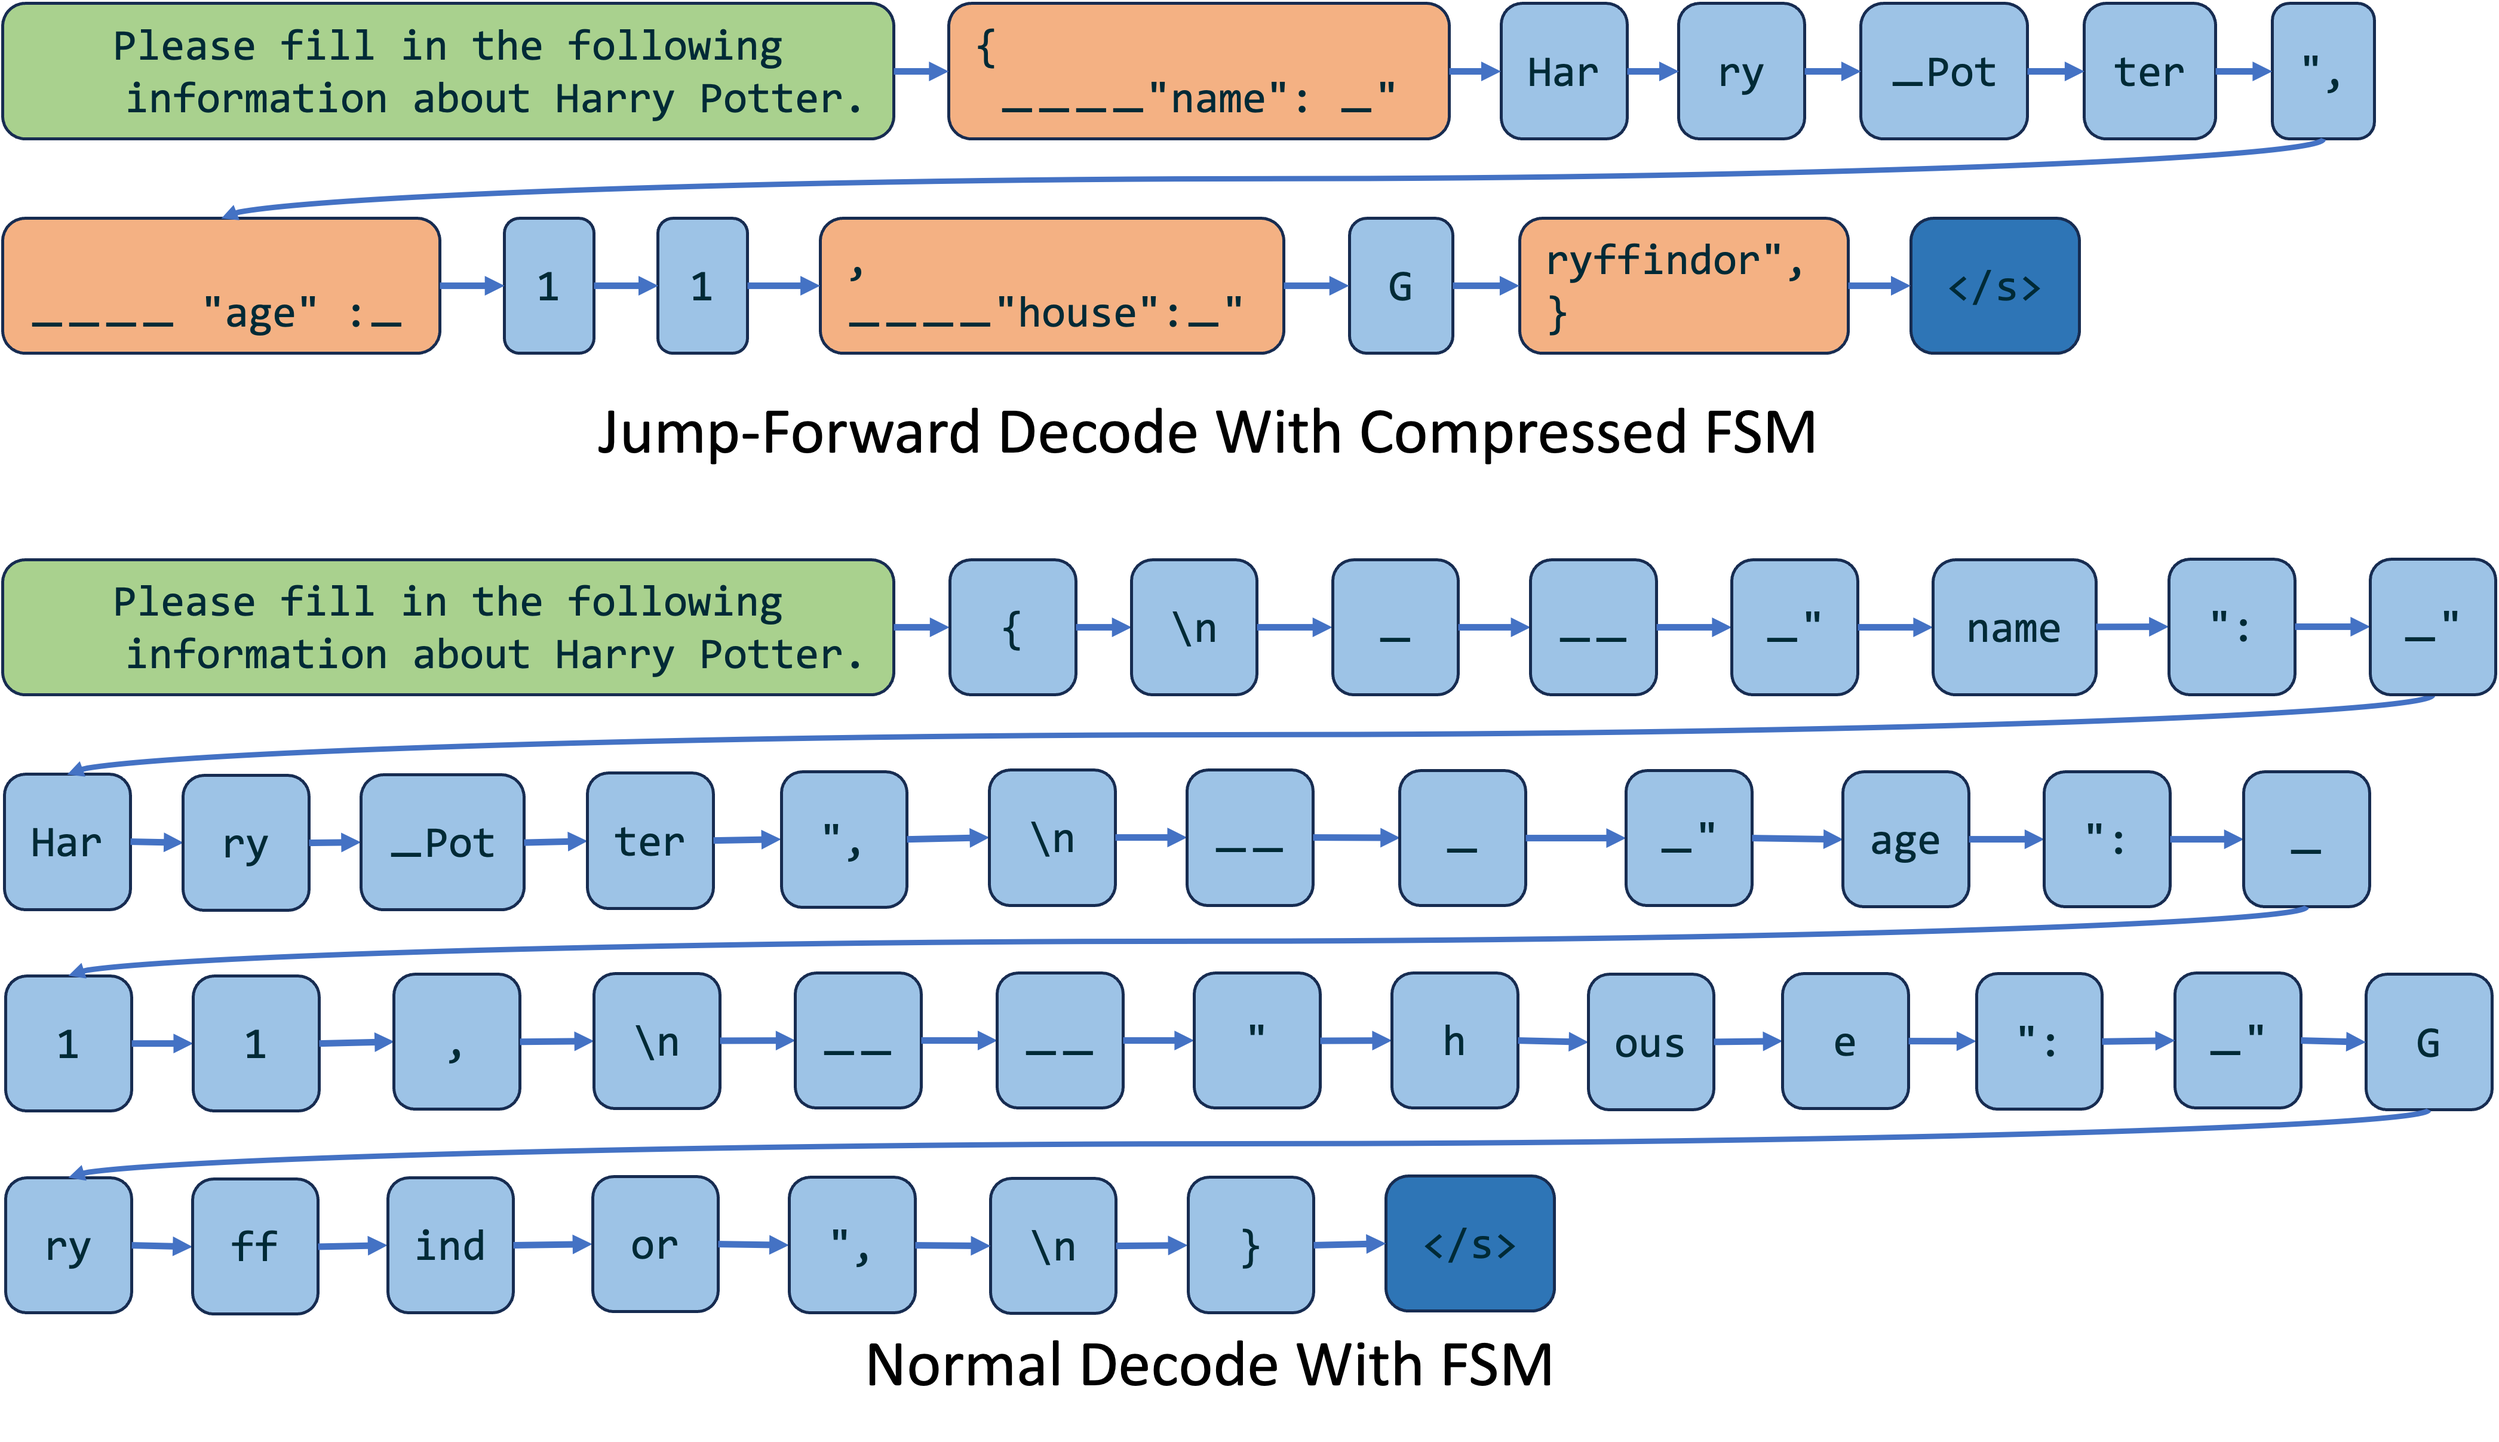
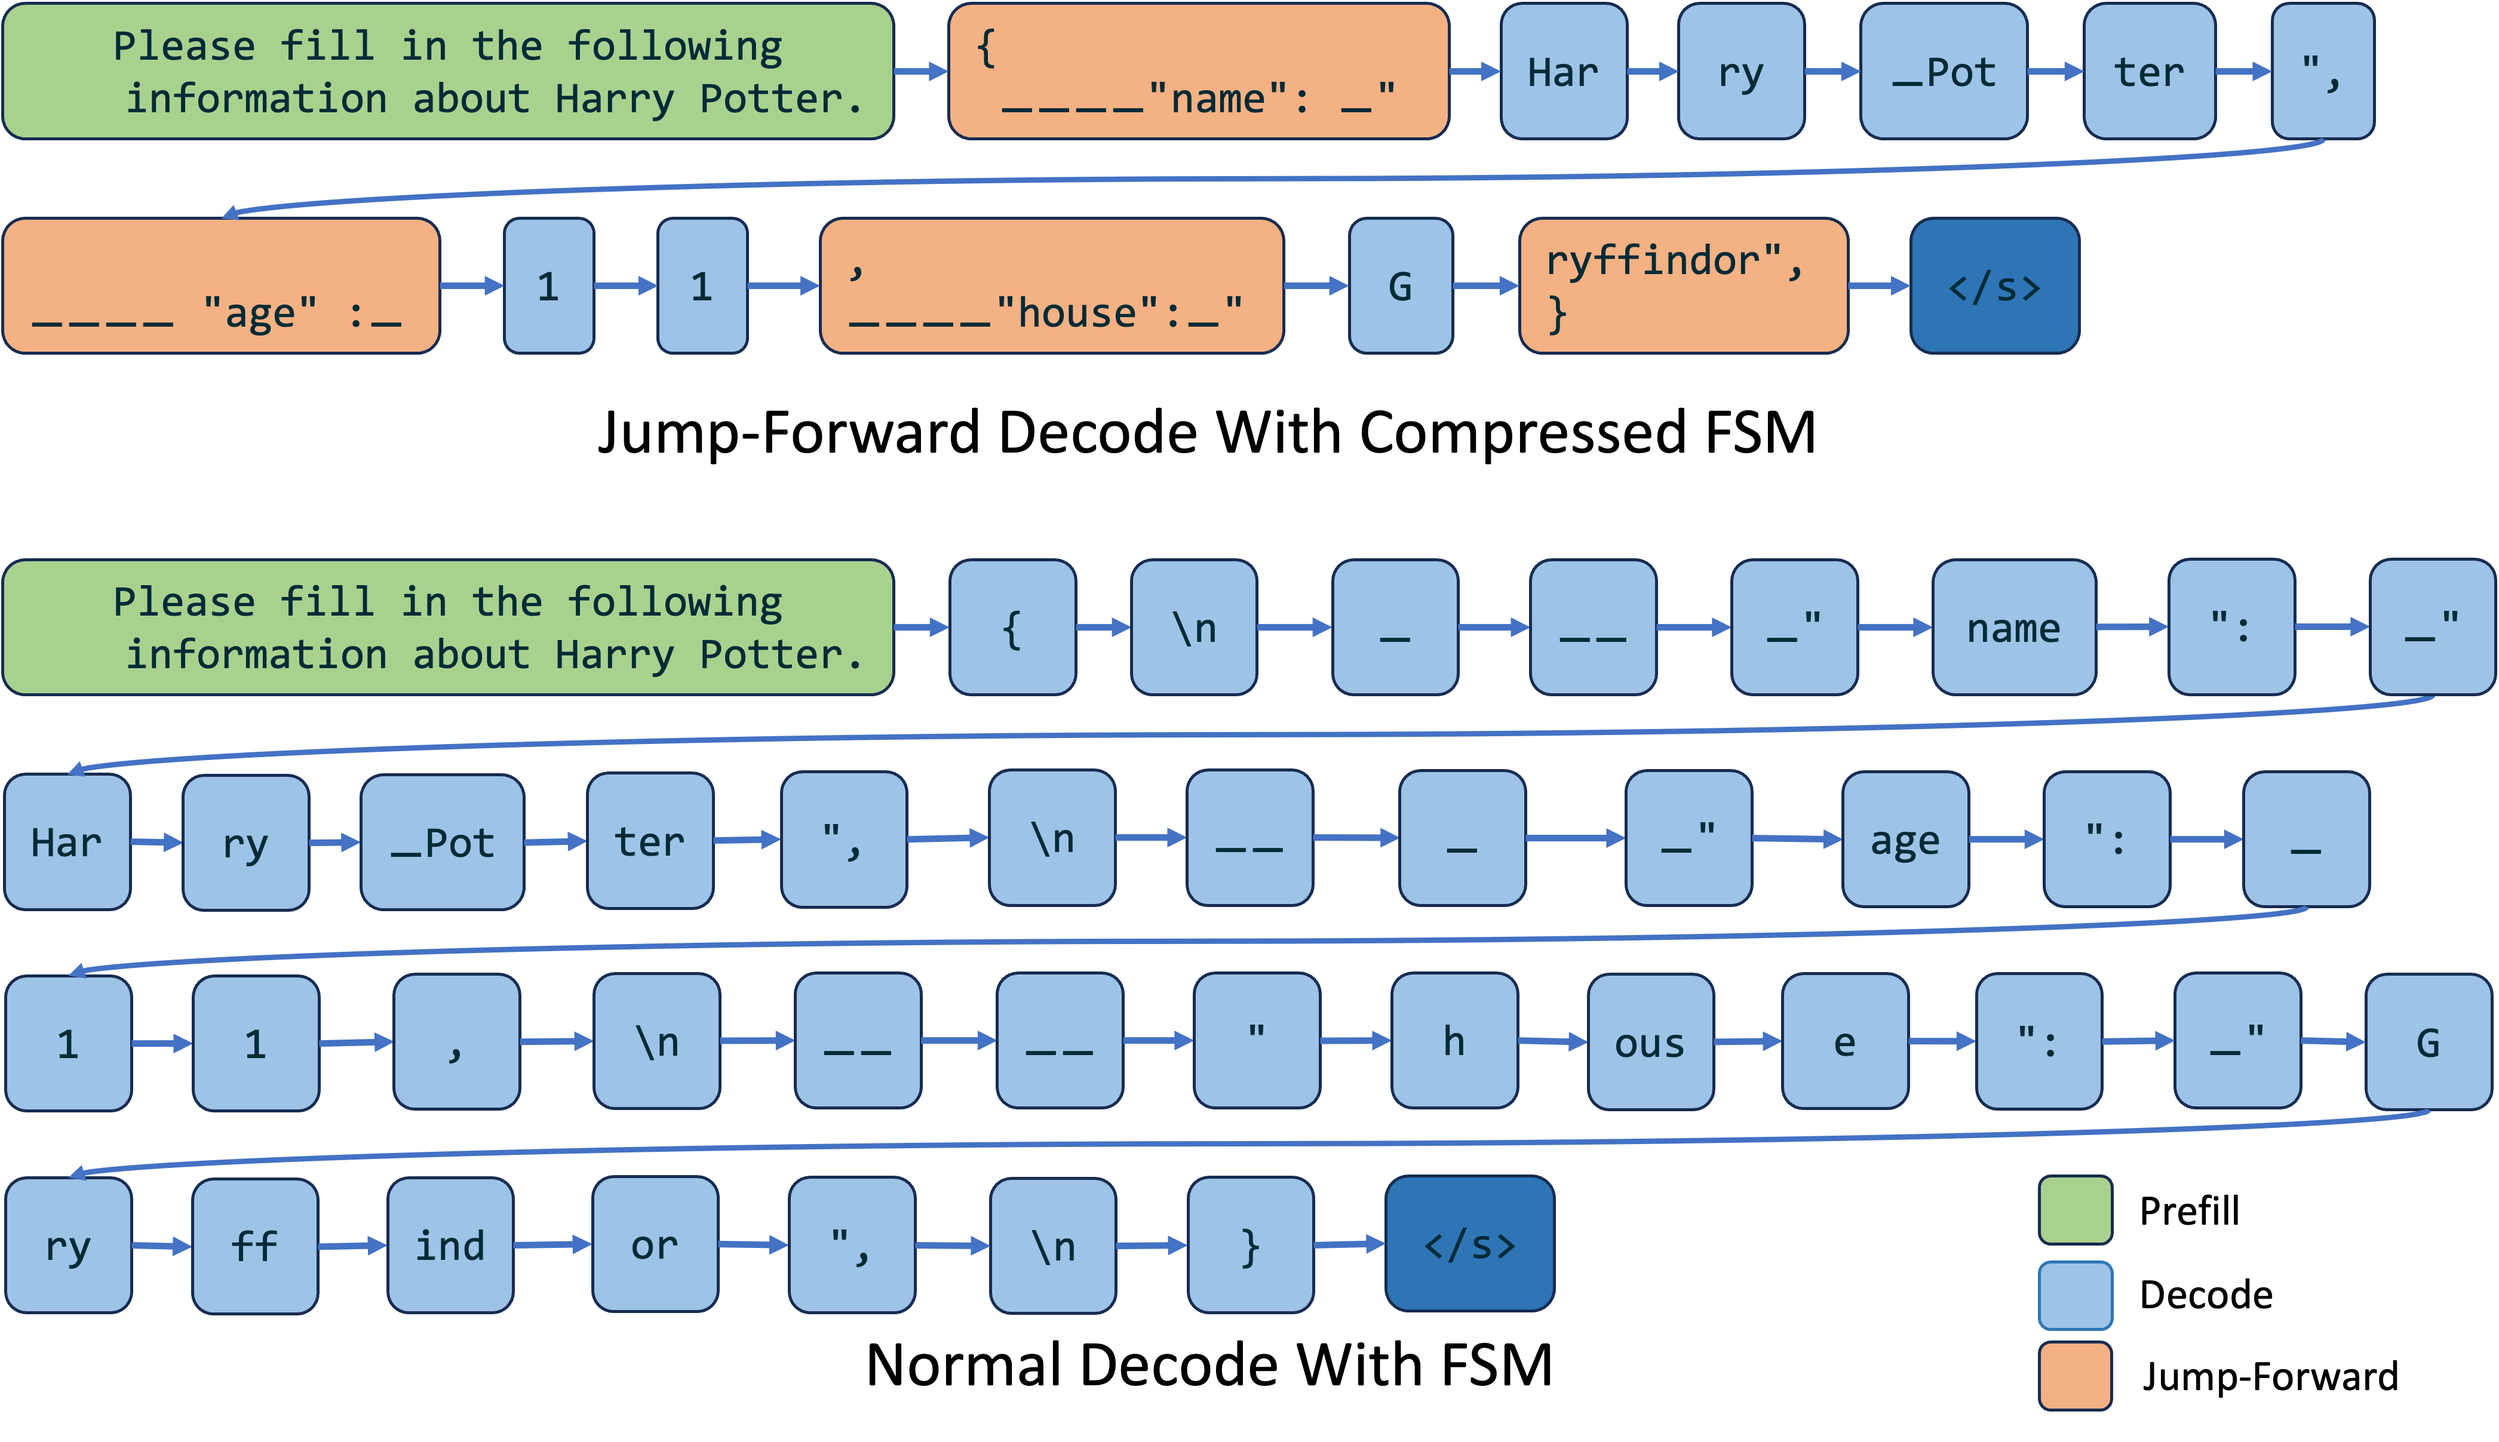
change light theme

Changed region(s): [[0.8078, 0.8075, 0.9632, 0.9938]]

diff --git a/blog/2024-01-30-compressed-fsm.md b/blog/2024-01-30-compressed-fsm.md
@@ -17,7 +17,7 @@ Figure 1: Demo of speedups by SGLang's jump-forward decoding algorithm, compared
 OpenAI proposed its [JSON mode](https://platform.openai.com/docs/guides/text-generation/json-mode) to instruct the model to always return a valid JSON object.
 However, more fine-grained control is often needed to ensure that the generated JSON object follows a specific [schema](https://json-schema.org/), such as:
 
-<img src="/images/blog/compressed_fsm/json_schema.png" style="width: 100%; max-width: 80%; margin-left: auto; margin-right: auto; margin-bottom: auto"></img>
+<img src="/images/blog/compressed_fsm/json_schema_light.png" style="width: 100%; max-width: 60%; margin-left: auto; margin-right: auto; margin-bottom: auto"></img>
 <p style="color:gray; text-align: center;">
 Figure 2: Example of how a JSON schema can guide the generation of a JSON object.
 </p>
@@ -28,7 +28,7 @@ For local LLMs, there are two major methods to guide the model to generate JSON 
 
 This method involves transforming the JSON schema into a regular expression. We can then construct a [Finite State Machine(FSM)](https://en.wikipedia.org/wiki/Finite-state_machine) based on the regular expression. For every state within the FSM, we can calculate the permissible transitions and identify the acceptable next tokens. This allows us to track the current state during decoding and filter out invalid tokens by applying logit bias to the output.
 
-<img id = "figure3" src="/images/blog/compressed_fsm/method1.png" style="width: 100%; max-width: 80%; margin-left: auto; margin-right: auto; margin-bottom: auto"></img>
+<img id = "figure3" src="/images/blog/compressed_fsm/method1_light.png" style="width: 100%; max-width: 80%; margin-left: auto; margin-right: auto; margin-bottom: auto"></img>
 <p style="color:gray; text-align: center;">
 Figure 3: ...
 </p>
